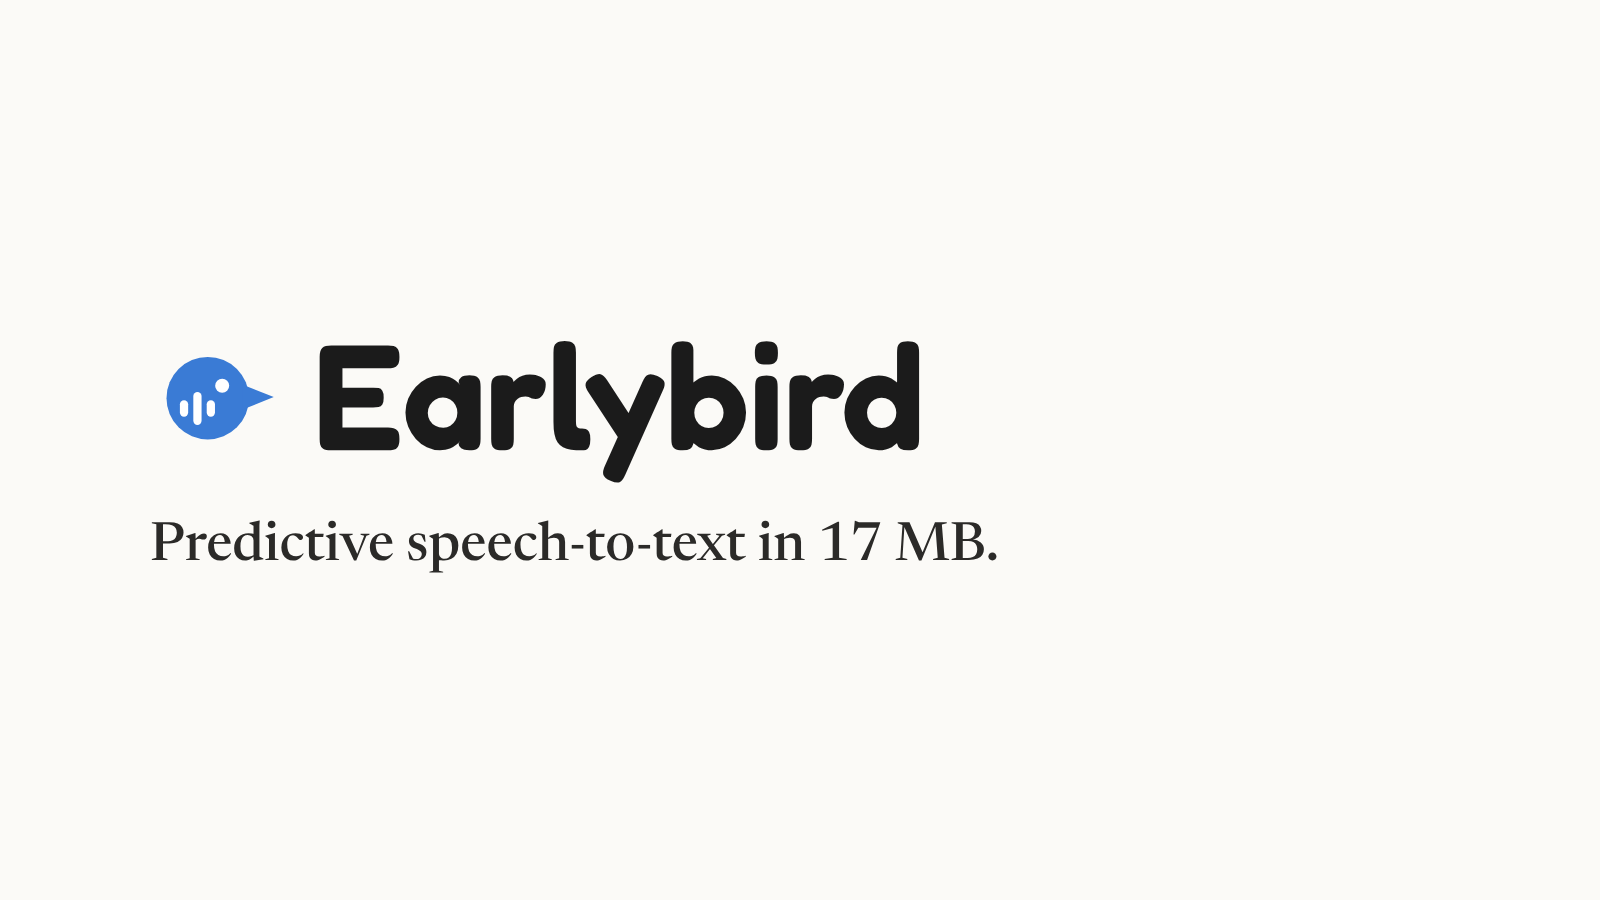
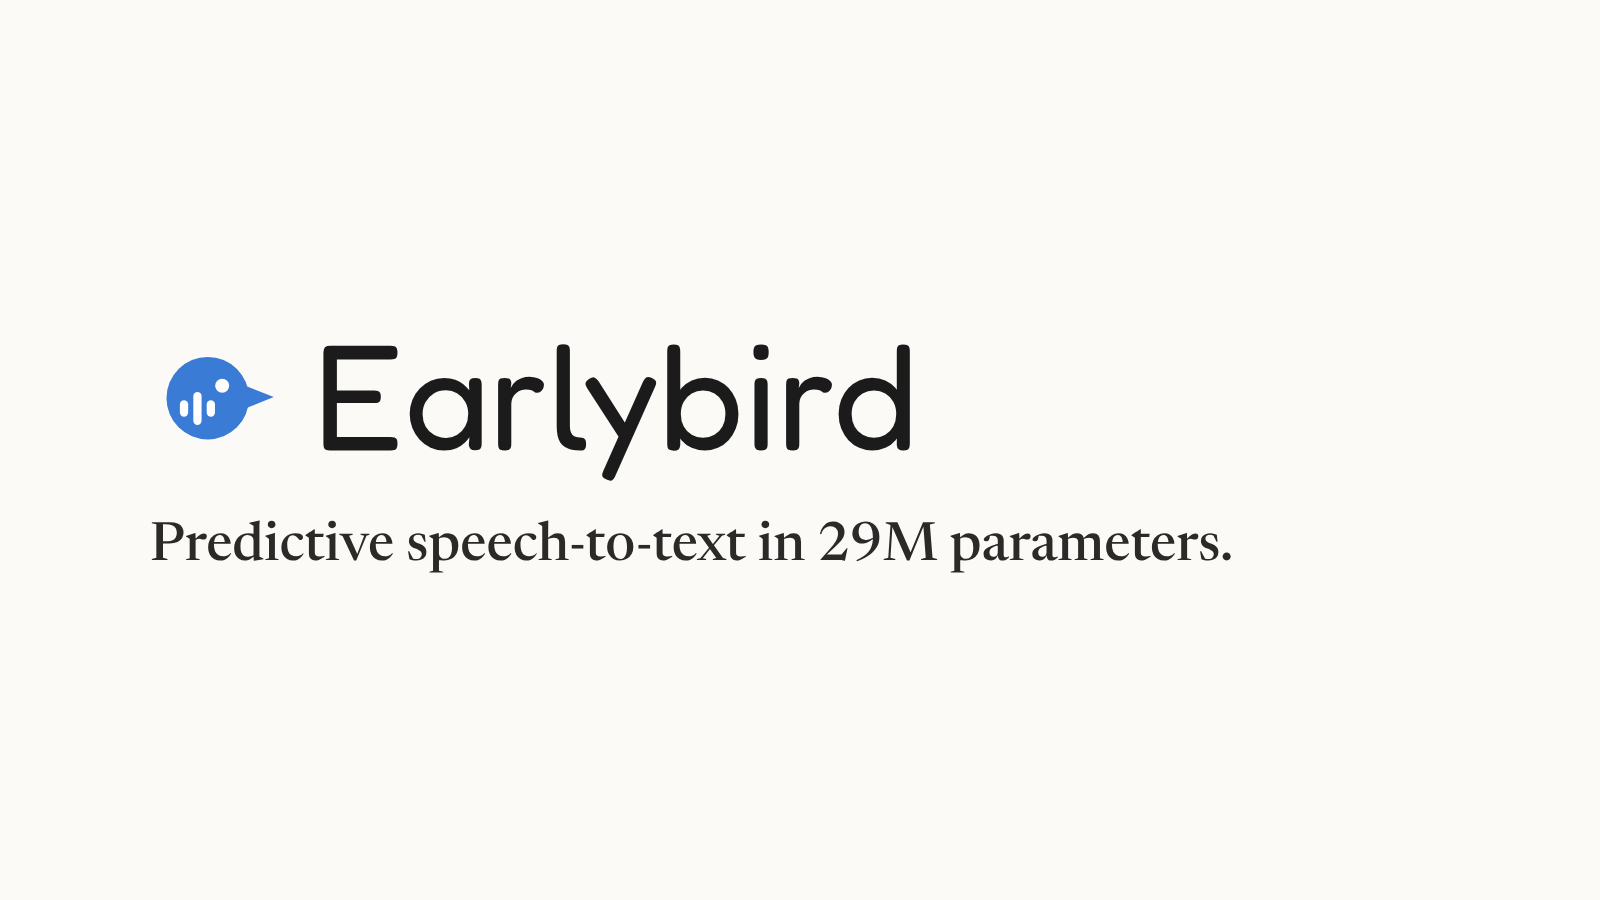
Earlybird post: title leads with 29M parameters, lighter cover font
Claude-Session: https://claude.ai/code/session_01DKNAM66TFhzuXgpXMPRyGu

Changed region(s): [[0.1875, 0.3733, 0.5938, 0.5289], [0.5, 0.56, 0.7812, 0.6222]]

diff --git a/lib/native-posts.ts b/lib/native-posts.ts
@@ -40,7 +40,7 @@ export const PARADEE_12_POST: PostData = {
 
 export const EARLYBIRD_POST: PostData = {
   id: 'earlybird',
-  title: 'Earlybird: predictive speech-to-text in 17 MB',
+  title: 'Earlybird: predictive speech-to-text in 29M parameters',
   subtitle: 'A tiny streaming speech-to-text model that predicts words before the speaker finishes saying them with a confidence score.',
   date: '2026-11-11',
   contentHtml: '',
